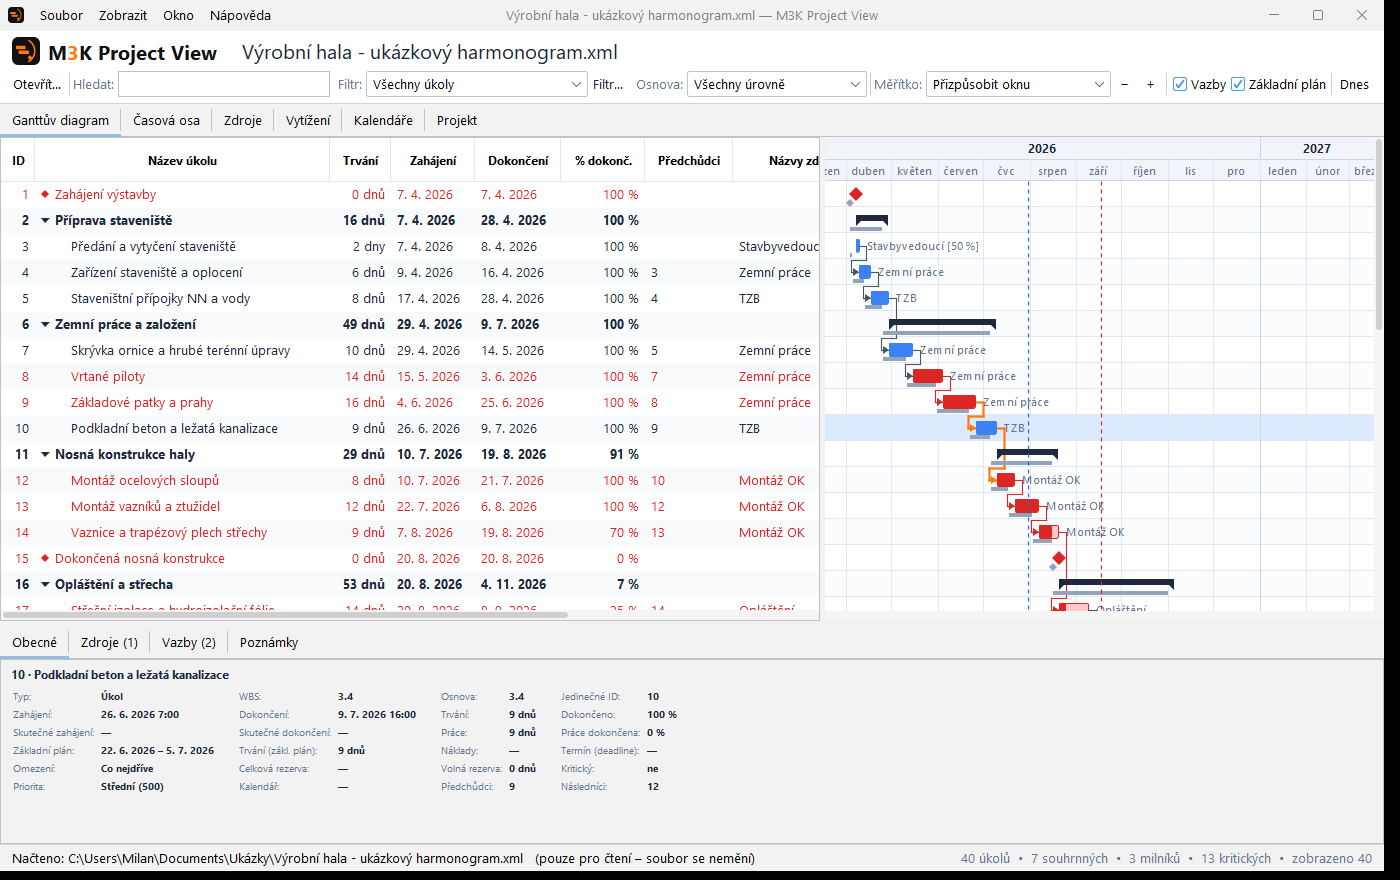
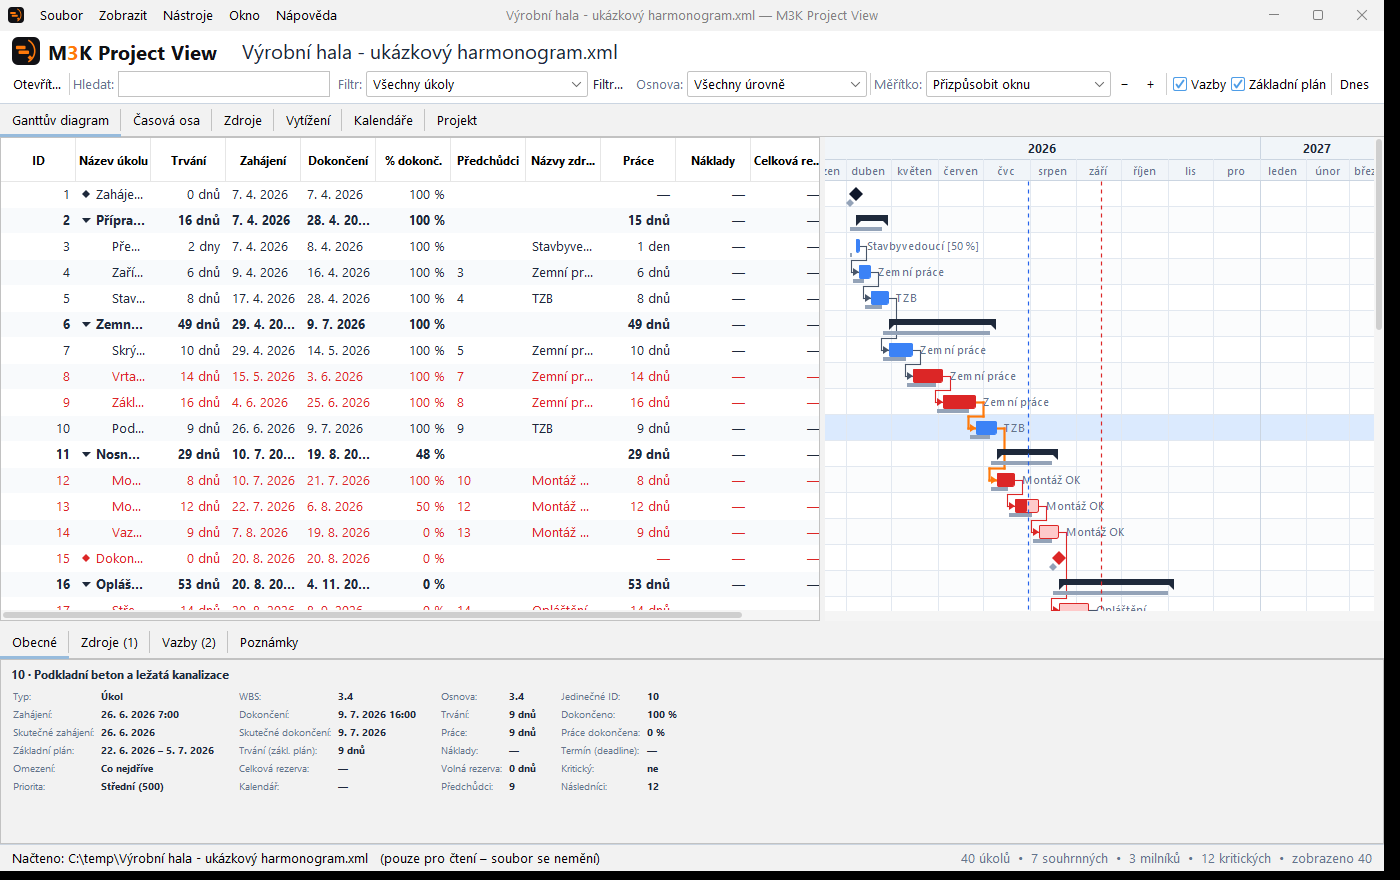
Vydání 0.3.0: web, nové ukázkové snímky a dokumentace
- README popisuje kontrolu kvality plánu, porovnání verzí, export do Excelu,
  uložené pohledy, kopírování řádků i automatické šířky sloupců
- stránka ke stažení: dvě nové karty funkcí, snímek dialogu kontroly plánu
  a přehled novinek verze
- ukázkový harmonogram má skutečné termíny odvozené od data stavu a leží
  v C:\temp, takže cesta ve stavovém řádku snímků nic neprozrazuje

diff --git a/web/projectview.html b/web/projectview.html
@@ -201,7 +201,7 @@
       <div class="strip-item"><svg viewBox="0 0 24 24" stroke-width="1.6" stroke-linecap="round" stroke-linejoin="round"><path d="M14 3H7a2 2 0 0 0-2 2v14a2 2 0 0 0 2 2h10a2 2 0 0 0 2-2V8Z"/><path d="M14 3v5h5"/></svg><span>MPP, MPT, XML, MPX, MPD</span></div>
       <div class="strip-item"><svg viewBox="0 0 24 24" stroke-width="1.6" stroke-linecap="round"><path d="M4 7h9M4 12h13M4 17h7"/></svg><span>Ganttův diagram s vazbami</span></div>
       <div class="strip-item"><svg viewBox="0 0 24 24" stroke-width="1.6" stroke-linecap="round"><path d="M4 19V9M9 19V5M14 19v-7M19 19v-3"/><path d="M3 21h18"/></svg><span>Vytížení a přetížení zdrojů</span></div>
-      <div class="strip-item"><svg viewBox="0 0 24 24" stroke-width="1.6" stroke-linecap="round" stroke-linejoin="round"><path d="M6 9V4h12v5"/><rect x="4" y="9" width="16" height="7" rx="2"/><path d="M7 16h10v4H7z"/></svg><span>Tisk, PDF, CSV i PNG</span></div>
+      <div class="strip-item"><svg viewBox="0 0 24 24" stroke-width="1.6" stroke-linecap="round" stroke-linejoin="round"><path d="M6 9V4h12v5"/><rect x="4" y="9" width="16" height="7" rx="2"/><path d="M7 16h10v4H7z"/></svg><span>Tisk, PDF, Excel i PNG</span></div>
     </div>
   </div>
 </section>
@@ -242,7 +242,17 @@
       <div class="feat reveal">
         <div class="feat-ico"><svg viewBox="0 0 24 24" stroke-width="1.5" stroke-linecap="round" stroke-linejoin="round"><path d="M6 9V4h12v5"/><rect x="4" y="9" width="16" height="7" rx="2"/><path d="M7 16h10v4H7z"/></svg></div>
         <h3>Tisk a export</h3>
-        <p>Tisk se stránkováním a opakovanou hlavičkou, PDF ve formátu A4 i A3, zobrazené úkoly do CSV pro Excel a diagram nebo časovou osu do PNG.</p>
+        <p>Tisk se stránkováním a opakovanou hlavičkou, PDF ve formátu A4 i A3, sešit XLSX s listy úkolů, zdrojů, přiřazení i vytížení, CSV a diagram nebo časová osa do PNG.</p>
+      </div>
+      <div class="feat reveal">
+        <div class="feat-ico"><svg viewBox="0 0 24 24" stroke-width="1.5" stroke-linecap="round" stroke-linejoin="round"><path d="M12 3 4 6.5V11c0 5 3.4 8.6 8 10 4.6-1.4 8-5 8-10V6.5L12 3Z"/><path d="m9 12 2 2 4-4"/></svg></div>
+        <h3>Kontrola kvality plánu</h3>
+        <p>Čtrnáct kontrol ve stylu DCMA: úkoly bez vazeb, tvrdá omezení, záporná i přehnaná rezerva, dlouhá trvání, prodlevy ve vazbách nebo zpoždění proti datu stavu. U každého nálezu vidíte dotčené úkoly a přehled uložíte do CSV.</p>
+      </div>
+      <div class="feat reveal">
+        <div class="feat-ico"><svg viewBox="0 0 24 24" stroke-width="1.5" stroke-linecap="round" stroke-linejoin="round"><path d="M4 7h7M4 12h5M4 17h7"/><path d="M15 5v14"/><path d="m18 8 3 3-3 3"/></svg></div>
+        <h3>Porovnání dvou verzí</h3>
+        <p>Otevřete novou revizi a vyberte tu starší. Program úkoly spáruje podle ID, WBS i názvu a ukáže, co přibylo, zmizelo, přejmenovalo se a o kolik dní se posunul začátek nebo konec.</p>
       </div>
     </div>
   </div>
@@ -252,8 +262,8 @@
   <div class="wrap">
     <div class="sec-head reveal">
       <span class="sec-eyebrow">Náhledy</span>
-      <h2>Pět pohledů na jeden harmonogram</h2>
-      <p>Kromě Ganttova diagramu má program časovou osu pro prezentace, přehled zdrojů, jejich vytížení v čase a kalendáře projektu.</p>
+      <h2>Pět pohledů na jeden harmonogram a kontrola navíc</h2>
+      <p>Kromě Ganttova diagramu má program časovou osu pro prezentace, přehled zdrojů, jejich vytížení v čase, kalendáře projektu a rozbor kvality plánu.</p>
     </div>
     <div class="gal-grid">
       <figure class="shot reveal">
@@ -271,6 +281,10 @@
       <figure class="shot reveal">
         <img src="projectview-assets/gantt-dark.png?v={{ASSETS}}" width="1400" height="880" loading="lazy" alt="Ganttův diagram v tmavém režimu">
         <figcaption class="shot-cap">Tmavý režim — přepíná se v nabídce Zobrazit, stejně jako velikost písma a jazyk.</figcaption>
+      </figure>
+      <figure class="shot reveal" style="grid-column:1/-1">
+        <img src="projectview-assets/check.png?v={{ASSETS}}" width="1400" height="880" loading="lazy" alt="Dialog kontroly kvality plánu s přehledem nálezů">
+        <figcaption class="shot-cap">Kontrola kvality plánu: u každé kontroly je počet nálezů, podíl z úkolů a seznam dotčených úkolů — jedním tlačítkem se vyberou v tabulce.</figcaption>
       </figure>
     </div>
   </div>
@@ -291,6 +305,7 @@
       <div class="spec"><span class="k">Licence</span><span class="v">freeware — zdarma i pro firmy</span></div>
       <div class="spec"><span class="k">Vaše soubory</span><span class="v">program je pouze čte</span></div>
       <div class="spec"><span class="k">Internet</span><span class="v">program se nikam nepřipojuje</span></div>
+      <div class="spec"><span class="k">Novinky ve verzi {{VERSION}}</span><span class="v">kontrola kvality plánu, porovnání dvou verzí,<br>export do Excelu a kopírování řádků</span></div>
     </div>
   </div>
 </section>

diff --git a/tools/webshots/Shots.java b/tools/webshots/Shots.java
@@ -28,12 +28,9 @@ public final class Shots {
                 w.gantt.setZoom(GanttPanel.Zoom.FIT);
                 w.baselineBox.setSelected(true);
                 w.gantt.setShowBaseline(true);
-                // stejné jako v programu „Přizpůsobit šířky obsahu“ – jinak jsou
-                // názvy úkolů na snímku oříznuté na několik znaků
+                // šířky sloupců si program přizpůsobí sám (od verze 0.3.0),
+                // stačí posunout dělicí příčku, ať je na názvy vidět
                 w.mainSplit.setDividerLocation(820);
-                java.lang.reflect.Method fit = MainWindow.class.getDeclaredMethod("autoSizeColumns");
-                fit.setAccessible(true);
-                fit.invoke(w);
                 int row = Math.min(9, w.tree.visible().size() - 1);
                 w.table.setRowSelectionInterval(row, row);
                 w.table.scrollRectToVisible(w.table.getCellRect(0, 0, true));
@@ -63,6 +60,16 @@ public final class Shots {
 
                 w.tabs.setSelectedIndex(0);
                 w.validate();
+
+                // dialog kontroly kvality plánu nad oknem
+                java.util.List<ScheduleCheck.Finding> findings = ScheduleCheck.run(project);
+                ScheduleCheckDialog dialog = new ScheduleCheckDialog(w, findings);
+                dialog.pack();
+                dialog.addNotify();
+                dialog.validate();
+                shotWithDialog(w, dialog, outDir + "/check.png");
+                dialog.dispose();
+
                 // samotný diagram v plné velikosti (pro výřez do hlavičky stránky)
                 BufferedImage full = w.renderImage();
                 ImageIO.write(full, "png", new File(outDir + "/gantt-full.png"));
@@ -73,6 +80,30 @@ public final class Shots {
             }
         });
         System.exit(0);
+    }
+
+    /** Okno se ztmavením a dialogem uprostřed – jako když dialog opravdu vyskočí. */
+    private static void shotWithDialog(MainWindow w, javax.swing.JDialog dialog, String path) throws Exception {
+        BufferedImage img = new BufferedImage(w.getWidth(), w.getHeight(), BufferedImage.TYPE_INT_RGB);
+        Graphics2D g = img.createGraphics();
+        w.getRootPane().printAll(g);
+        g.setColor(new java.awt.Color(0, 0, 0, 90));
+        g.fillRect(0, 0, img.getWidth(), img.getHeight());
+
+        BufferedImage d = new BufferedImage(dialog.getWidth(), dialog.getHeight(), BufferedImage.TYPE_INT_RGB);
+        Graphics2D dg = d.createGraphics();
+        dialog.getRootPane().printAll(dg);
+        dg.dispose();
+
+        int x = (img.getWidth() - d.getWidth()) / 2;
+        int y = (img.getHeight() - d.getHeight()) / 2;
+        g.setColor(new java.awt.Color(0, 0, 0, 60));
+        g.fillRoundRect(x - 6, y - 4, d.getWidth() + 12, d.getHeight() + 14, 12, 12);
+        g.drawImage(d, x, y, null);
+        g.setColor(new java.awt.Color(0, 0, 0, 120));
+        g.drawRect(x - 1, y - 1, d.getWidth() + 1, d.getHeight() + 1);
+        g.dispose();
+        ImageIO.write(img, "png", new File(path));
     }
 
     private static void shot(MainWindow w, String path) throws Exception {

diff --git a/tools/webshots/DemoProject.java b/tools/webshots/DemoProject.java
@@ -17,6 +17,8 @@ public final class DemoProject {
     private static Resource elektro;
     private static Resource komunikace;
     private static Task previous;
+    /** Datum stavu – podle něj se odvozuje rozpracovanost a skutečné termíny. */
+    private static final LocalDate STATUS = LocalDate.of(2026, 7, 31);
     private static final java.util.Set<LocalDate> SVATKY = new java.util.HashSet<>();
 
     public static void main(String[] args) throws Exception {
@@ -212,7 +214,12 @@ public final class DemoProject {
         t.setFinish(dateTime(day));
         t.setDuration(Duration.getInstance(0, TimeUnit.DAYS));
         t.setCritical(true);
-        t.setPercentageComplete(Integer.valueOf(done ? 100 : 0));
+        boolean reached = !day.isAfter(STATUS);
+        t.setPercentageComplete(Integer.valueOf(reached ? 100 : 0));
+        if (reached) {
+            t.setActualStart(dateTime(day));
+            t.setActualFinish(dateTime(day));
+        }
     }
 
     /** Vloží úkol a vrátí datum, kdy má začít následující (řetězení konec–začátek). */
@@ -229,7 +236,22 @@ public final class DemoProject {
         t.setStart(dateTime(b));
         t.setFinish(e.atTime(16, 0));
         t.setDuration(Duration.getInstance(days, TimeUnit.DAYS));
+        // rozpracovanost musí sedět s datem stavu: co ještě nezačalo, nemůže být hotové
+        if (b.isAfter(STATUS)) {
+            percent = 0;
+        } else if (!e.isAfter(STATUS)) {
+            percent = 100;
+        } else if (percent == 0 || percent == 100) {
+            percent = 50;
+        }
         t.setPercentageComplete(Integer.valueOf(percent));
+        if (percent > 0) {
+            t.setActualStart(t.getStart());
+            if (percent >= 100) {
+                t.setActualFinish(t.getFinish());
+                t.setActualDuration(t.getDuration());
+            }
+        }
         t.setCritical(critical);
         t.setWork(Duration.getInstance(days * 8.0 * (res == stavbyvedouci ? 0.5 : 1.0), TimeUnit.HOURS));
         if (res != null) {

diff --git a/tools/webshots/README.md b/tools/webshots/README.md
@@ -12,7 +12,7 @@ a nekompilují se s ní — spouštějí se ručně, když je potřeba snímky o
 Ukázkový projekt je smyšlená „Novostavba výrobní haly“ firmy „Ukázková stavební
 s.r.o.“ — žádná data z reálných zakázek. Obsahuje souhrnné úkoly s dopočítanými
 termíny, vazby konec–začátek, kritickou cestu, základní plán, státní svátky
-v kalendáři a několik přetížených období u zdrojů.
+v kalendáři, skutečné termíny podle data stavu a několik přetížených období u zdrojů.
 
 `Shots` sahá na vnitřní pole `MainWindow`, proto patří do balíčku
 `cz.msproject.viewer` a překládá se dohromady s aplikací (viz postup níže).
@@ -23,12 +23,12 @@ v kalendáři a několik přetížených období u zdrojů.
 $jdk  = "C:\Users\Milan\Documents\Codex\2026-09-10\dok\work\jdk\jdk-21.0.12.1+1"
 $cp   = "build\viewer.jar;lib\*"
 $tmp  = "$env:TEMP\webshots"
-$vzor = "$env:USERPROFILE\Documents\Ukázky\Výrobní hala - ukázkový harmonogram.xml"
+$vzor = "C:\temp\Výrobní hala - ukázkový harmonogram.xml"
 
 .\build.ps1 -SkipTests           # potřebujeme build\viewer.jar
 
-# 1) ukázková data — cesta k souboru je vidět ve stavovém řádku, patří do složky
-#    s rozumným názvem (ne do dočasného adresáře s náhodným jménem)
+# 1) ukázková data — cesta k souboru je vidět ve stavovém řádku snímku, proto
+#    krátká neutrální složka (ne profil uživatele)
 New-Item -ItemType Directory -Force "$tmp\src\cz\msproject\viewer", (Split-Path $vzor) | Out-Null
 Copy-Item tools\webshots\DemoProject.java "$tmp\src\"
 Copy-Item tools\webshots\Shots.java "$tmp\src\cz\msproject\viewer\"
@@ -41,14 +41,15 @@ Copy-Item tools\webshots\Shots.java "$tmp\src\cz\msproject\viewer\"
 & "$jdk\bin\java.exe" "-Dm3k.dark=true" -cp "$tmp\classes;$cp" cz.msproject.viewer.Shots $vzor "$tmp\out-dark"
 
 # 3) na web
-Copy-Item "$tmp\out\gantt.png","$tmp\out\timeline.png","$tmp\out\usage.png","$tmp\out\calendar.png" web\assets\
+Copy-Item "$tmp\out\gantt.png","$tmp\out\timeline.png","$tmp\out\usage.png","$tmp\out\calendar.png","$tmp\out\check.png" web\assets\
 Copy-Item "$tmp\out-dark\gantt.png" web\assets\gantt-dark.png
 ```
 
-`Shots` před snímkem nastaví dělicí příčku na 820 px a zavolá „Přizpůsobit šířky
-obsahu“, jinak jsou názvy úkolů oříznuté na pár znaků; ve Vytížení vybere druhý
-zdroj, aby spodní panel nebyl prázdný. Vzniká i `gantt-full.png` — celý diagram
-v plné velikosti, ze kterého je výřez do hlavičky stránky.
+`Shots` před snímkem posune dělicí příčku na 820 px (šířky sloupců si program
+od verze 0.3.0 přizpůsobí sám) a ve Vytížení vybere druhý zdroj, aby spodní panel
+nebyl prázdný. Kromě záložek vzniká `check.png` — dialog kontroly kvality plánu
+nad ztmaveným oknem — a `gantt-full.png`, celý diagram v plné velikosti pro výřez
+do hlavičky stránky.
 
 Stránka na obrázky odkazuje s razítkem (`gantt.png?v={{ASSETS}}`), které doplní
 `build.ps1 -Web` podle času poslední změny ve `web\assets\`. Bez něj by
